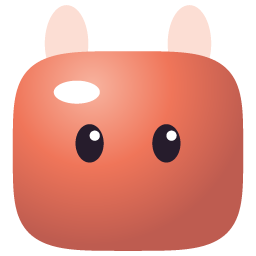
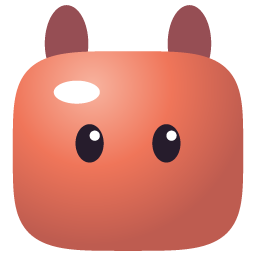
Give Pip darker horns so they read on light backgrounds

Changed region(s): [[0.625, 0.0, 0.8438, 0.2188], [0.1562, 0.0, 0.375, 0.2188]]

diff --git a/app/renderer/pet.css b/app/renderer/pet.css
@@ -32,7 +32,7 @@
 .pip .bang { transform-box: fill-box; transform-origin: 50% 100%; }
 .pip .spark { fill: var(--accent); transform-box: fill-box; transform-origin: center; }
 .pip .heart { fill: #f0567a; transform-box: fill-box; transform-origin: center; }
-.pip[data-acc="crown"] .sprout, .pip[data-acc="party"] .sprout, .pip[data-acc="crown"] .antenna, .pip[data-acc="party"] .antenna, .pip[data-acc="headphones"] .deep { display: none; }
+.pip[data-acc="crown"] .sprout, .pip[data-acc="party"] .sprout, .pip[data-acc="crown"] .antenna, .pip[data-acc="party"] .antenna, .pip[data-char="robot"][data-acc="headphones"] .deep { display: none; }
 
 /* robot: glowing face on a dark screen */
 .pip[data-char="robot"] .cheek, .pip[data-char="robot"] .glint { display: none; }

diff --git a/site/pet.css b/site/pet.css
@@ -32,7 +32,7 @@
 .pip .bang { transform-box: fill-box; transform-origin: 50% 100%; }
 .pip .spark { fill: var(--accent); transform-box: fill-box; transform-origin: center; }
 .pip .heart { fill: #f0567a; transform-box: fill-box; transform-origin: center; }
-.pip[data-acc="crown"] .sprout, .pip[data-acc="party"] .sprout, .pip[data-acc="crown"] .antenna, .pip[data-acc="party"] .antenna, .pip[data-acc="headphones"] .deep { display: none; }
+.pip[data-acc="crown"] .sprout, .pip[data-acc="party"] .sprout, .pip[data-acc="crown"] .antenna, .pip[data-acc="party"] .antenna, .pip[data-char="robot"][data-acc="headphones"] .deep { display: none; }
 
 /* robot: glowing face on a dark screen */
 .pip[data-char="robot"] .cheek, .pip[data-char="robot"] .glint { display: none; }

diff --git a/app/renderer/pet.js b/app/renderer/pet.js
@@ -54,7 +54,7 @@
       id: 'blob', name: 'Pip', blurb: 'The original. A small horned critter who takes your sessions very seriously.',
       top: 60, hw: 60, face: { ey: 106, dx: 24 }, gloss: [66, 80, 17, 8, -28], feet: true,
       back: (B) => `<path class="tail" d="M152 156q30 2 30 -26"/>
-        <path class="belly" d="M58 74q-8 -30 8 -38q16 8 16 30z"/><path class="belly" d="M142 74q8 -30 -8 -38q-16 8 -16 30z"/>`,
+        <path class="deep" d="M58 74q-8 -30 8 -38q16 8 16 30z"/><path class="deep" d="M142 74q8 -30 -8 -38q-16 8 -16 30z"/>`,
       body: (B) => `<rect fill="${B}" x="40" y="60" width="120" height="112" rx="48"/>`,
       front: () => `<ellipse class="belly" cx="100" cy="150" rx="34" ry="20"/>`,
     },

diff --git a/site/pet.js b/site/pet.js
@@ -54,7 +54,7 @@
       id: 'blob', name: 'Pip', blurb: 'The original. A small horned critter who takes your sessions very seriously.',
       top: 60, hw: 60, face: { ey: 106, dx: 24 }, gloss: [66, 80, 17, 8, -28], feet: true,
       back: (B) => `<path class="tail" d="M152 156q30 2 30 -26"/>
-        <path class="belly" d="M58 74q-8 -30 8 -38q16 8 16 30z"/><path class="belly" d="M142 74q8 -30 -8 -38q-16 8 -16 30z"/>`,
+        <path class="deep" d="M58 74q-8 -30 8 -38q16 8 16 30z"/><path class="deep" d="M142 74q8 -30 -8 -38q-16 8 -16 30z"/>`,
       body: (B) => `<rect fill="${B}" x="40" y="60" width="120" height="112" rx="48"/>`,
       front: () => `<ellipse class="belly" cx="100" cy="150" rx="34" ry="20"/>`,
     },

diff --git a/app/make-icon.js b/app/make-icon.js
@@ -19,7 +19,7 @@ function png(size) {
         // light from the top left, like the SVG characters
         const t = Math.min(1, Math.hypot(u - 0.36, v - 0.34) / 0.62), lerp = (a, b, k) => a + (b - a) * k;
         const shade = t < 0.5 ? [248, 180, 160].map((x, i) => lerp(x, [240, 118, 90][i], t * 2)) : [240, 118, 90].map((x, i) => lerp(x, [190, 92, 80][i], t * 2 - 1));
-        const c = !body ? [252, 222, 212] : glint ? [255, 255, 255] : eye(0.35) || eye(0.65) ? [38, 28, 44] : shade;
+        const c = !body ? [150, 78, 84] : glint ? [255, 255, 255] : eye(0.35) || eye(0.65) ? [38, 28, 44] : shade;
         r += c[0]; g += c[1]; b += c[2]; a++;
       }
       const o = y * (size * 4 + 1) + 1 + x * 4, n = SS * SS;
